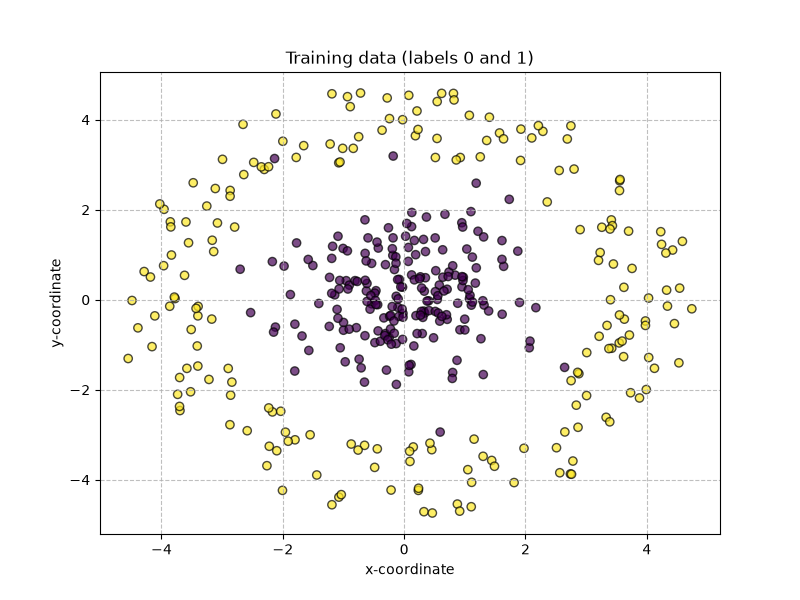
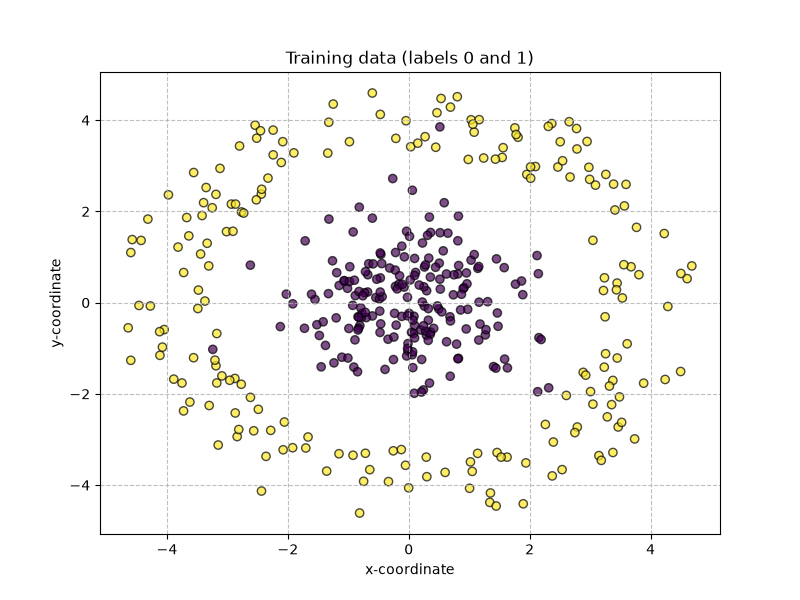
Final modifications and redaction of README

diff --git a/main.py b/main.py
@@ -3,7 +3,7 @@ import numpy as np
 from src.data import gen_test, gen_train, gen_non_lin_sep_train, gen_non_lin_sep_test
 from src.models.logistic_regression import LogisticRegression
 from src.models.neural_network import NN
-from src.utils.visualization import plot_losses, plot_train, plot_test
+from src.utils.visualization import plot_train, plot_test
 from src.config import LR, EPOCHS, SEED
 
 

diff --git a/src/data.py b/src/data.py
@@ -46,7 +46,7 @@ def gen_non_lin_sep_train():
 
     points_0 = np.random.normal(loc=0.0, scale=sigma, size=(n, 2))
     
-    r = np.random.uniform(4*0.8, 4*1.2, size=n)
+    r = np.random.uniform(3.2, 4.8, size=n)
     theta = np.random.uniform(0, 2*np.pi, size=n)
     points_1 = np.column_stack([r * np.cos(theta), r * np.sin(theta)])
     labels_0 = np.zeros(n)

diff --git a/src/models/neural_network.py b/src/models/neural_network.py
@@ -7,7 +7,7 @@ class Layer:
 
     def __init__(self, k, input_size, activation):
         self.k = k              # number of neurons in the layer
-        self.W = np.random.randn(k, input_size) * np.sqrt(2.0 / input_size)       # at first all weights were set to 0 but the network could not learn
+        self.W = np.random.randn(k, input_size) * np.sqrt(2.0 / input_size)       # at first all weights were set to 0 but the network could not learn: this is called He-scaling
         self.b = np.zeros(k)
         self.activation = activation
     

diff --git a/README.md b/README.md
@@ -1,56 +1,121 @@
-In this mini-project, I'm trying to code a binary classifier from scratch, using only numpy.
+# Binary classifier from scratch (numpy only)
 
-To execute code: python main.py
-Results are printed in the terminal + images in images/
+A 2D binary classification project that compares **logistic regression** and a **1-hidden-layer neural network**.
 
+**Takeaway:** logistic regression achieves ≈90% accuracy on linearly separable data but fails on a ring-shaped dataset (≈52%); a small neural network recovers ≈90% accuracy by learning a non-linear decision boundary.
 
-Structure
+## Results
 
-project/
-    main.py
-    src/
-    images/
-    README.md
-    requirements.txt
-    .gitignore
+| Model | Dataset | Train acc. | Test acc. | Decision boundary |
+|-------|---------|------------|-----------|-------------------|
+| Logistic regression | Linear (d1) | ≈0.92 | ≈0.91 | linear |
+| Logistic regression | Non-linear (d2) | ≈0.52 | ≈0.52 | linear (fails) |
+| Neural network (8 hidden, tanh) | Non-linear (d2) | ≈0.93 | ≈0.90 | non-linear |
 
+*Accuracies with SEED=42, LR=0.1, EPOCHS=300 (see src/config.py).*
 
-Training data: points in the plane X
-- 200 randomly distributed with gaussian distribution around (-2, -2), with label y=0
-- 200 randomly distributed with gaussian distribution around (2, 2), with label y=1
+### Linear data — logistic regression works
 
+<img src="./images/log_reg/test_data.png" alt="Logistic regression on linear data" width="500"/>
 
-1ST APPROACH: logistic regression
+### Non-linear data — logistic regression fails
 
-Initial parameters: w = (0, 0) and b = 0
-Initial accuracy: 0.5
-Score : z = w.x + b
-Prediction: yhat = sigmoid(z)
+<img src="./images/log_reg_nonlin/test_data.png" alt="Logistic regression on non-linear data" width="500"/>
 
-Loss function used: binary cross-entropy, the mean value of -y * log(yhat) - (1 - y) * log(1 - yhat)
+### Non-linear data — neural network succeeds
 
+<img src="./images/nn/test_data.png" alt="Neural network on non-linear data" width="500"/>
 
-Test on new points.
+## Quick start
 
+**Requirements:** Python 3.10+
 
-LIMIT: logistic regression does not work with non-linearly separable classes
+```bash
+git clone https://github.com/bbblue2004/mini-neural-network-from-scratch.git
+cd mini-neural-network-from-scratch
+python -m venv .venv
+.venv\Scripts\activate        # Windows
+pip install -r requirements.txt
+python main.py
+```
 
-New training data:
-- gaussian distribution centered around 0
-- random points around 0 at a distance within an interval
-Both distributions are clearly separated.
+`main.py` runs three experiments in order:
 
-Non_linearly separable classes are generated by gen_non_lin_sep_train and can be seen in non_lin_sep_data.png.
-prediction.png shows that logistic regression cannot do a correct inference.
-This justifies the need of a neural network, which is able to have non-linear decision boundaries.
+1. Logistic regression on linear data (`images/log_reg/`)
+2. Logistic regression on non-linear data (`images/log_reg_nonlin/`)
+3. Neural network on non-linear data (`images/nn/`)
 
+Metrics are printed in the terminal; plots are saved in each experiment subfolder under images/.
 
-2ND APPROACH: neural network
+## What this project covers
 
-Initial parameters: random weights (not zero otherwise the network cannot learn), bias at zero.
-Initial accuracy of 0.5 and after a few hundred epochs, it's over 90%, and about 90% on the test set.
-Same loss function
-non_lin_sep_prediction.png shows that the neural network can learn non-linear boundaries.
+- Forward pass and backpropagation implemented from scratch (vectorized with NumPy)
+- Binary cross-entropy loss with numerical clipping
+- He-style initialization for hidden-layer weights
+- Synthetic 2D datasets for linear vs non-linear classification
+- Training loss curves and prediction scatter plots
 
-Structure of the network: 1 hidden layer of hidden_size neurons (here 8) with activation tanh, and 1 output layer of 1 neuron with activation sigmoid.
-lr = 0.1
+## Datasets
+
+Two datasets with 200 points per class (`N_PER_CLASS` in `src/config.py`).
+
+### d1 — linearly separable (two Gaussian distributions)
+
+- Class 0: Gaussian centered at (-2, -2), σ = 2
+- Class 1: Gaussian centered at (2, 2), σ = 2
+
+![Linear training data](./images/log_reg/train_data.png)
+
+### d2 — non-linearly separable (disk vs ring)
+
+- Class 0: Gaussian centered at (0, 0), σ = 1
+- Class 1: points at radius r ∈ [3.2, 4.8] with uniform random angle
+
+![Non-linear training data](./images/log_reg_nonlin/train_data.png)
+
+Test sets are fresh samples drawn from the same distributions.
+
+## Models
+
+### Logistic regression
+
+- Score: z = w · x + b
+- Prediction: ŷ = σ(z)
+- Loss: binary cross-entropy
+- Init: w = (0, 0), b = 0
+
+### Neural network
+
+**Architecture:** Input (2) → Hidden (8, tanh) → Output (1, sigmoid)
+
+- Init: random weights (and not zero, otherwise the model cannot learn), zero bias
+- Training: full-batch gradient descent with hand-written backprop
+- Loss: binary cross-entropy
+
+## Configuration
+
+| Parameter | Default | Location |
+|-----------|---------|----------|
+| SEED | 42 | `src/config.py` |
+| LR | 0.1 | `src/config.py` |
+| EPOCHS | 300 | `src/config.py` |
+| Hidden size | 8 | `main.py` |
+
+## Project structure
+
+```
+main.py                  # runs all three experiments
+src/
+  config.py              # hyperparameters and paths
+  data.py                # dataset generators
+  models/
+    logistic_regression.py
+    neural_network.py
+  utils/
+    utils.py             
+    visualization.py     # plot functions
+images/
+  log_reg/               # experiment 1 outputs
+  log_reg_nonlin/        # experiment 2 outputs
+  nn/                    # experiment 3 outputs
+```